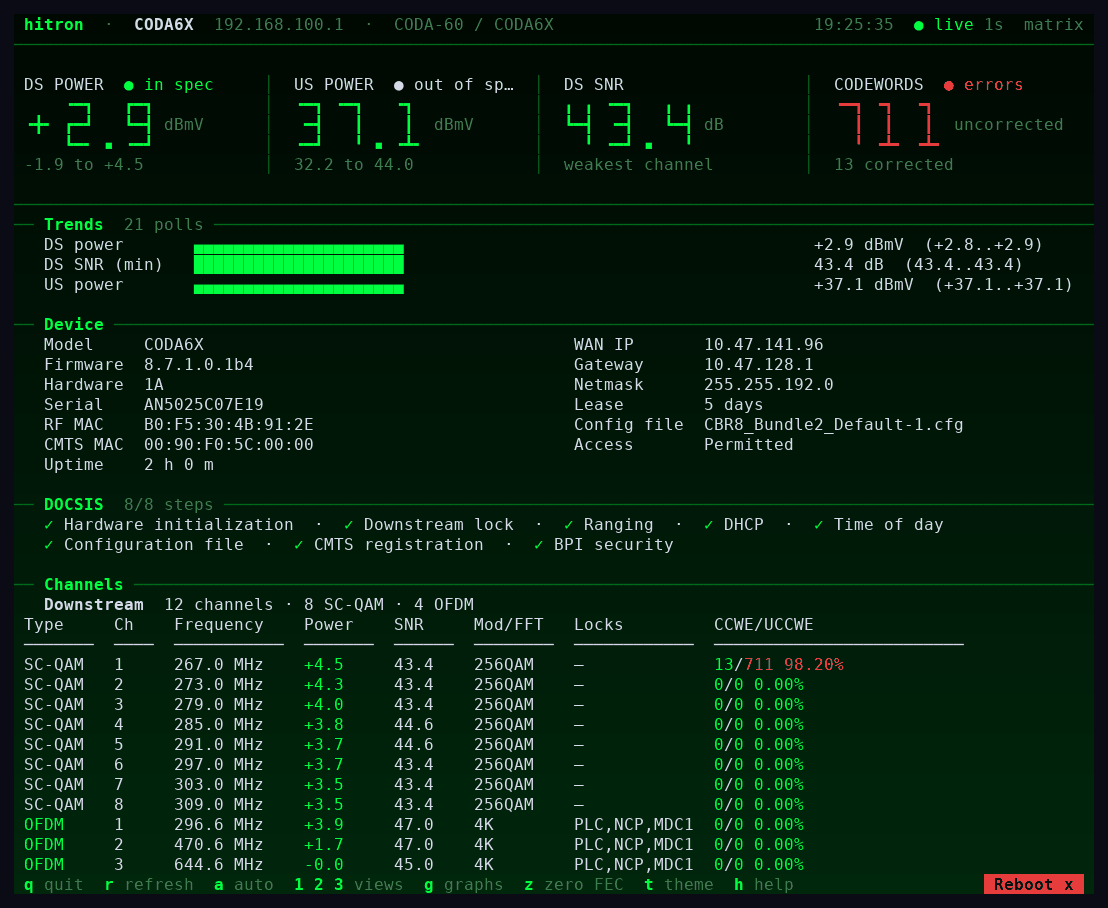
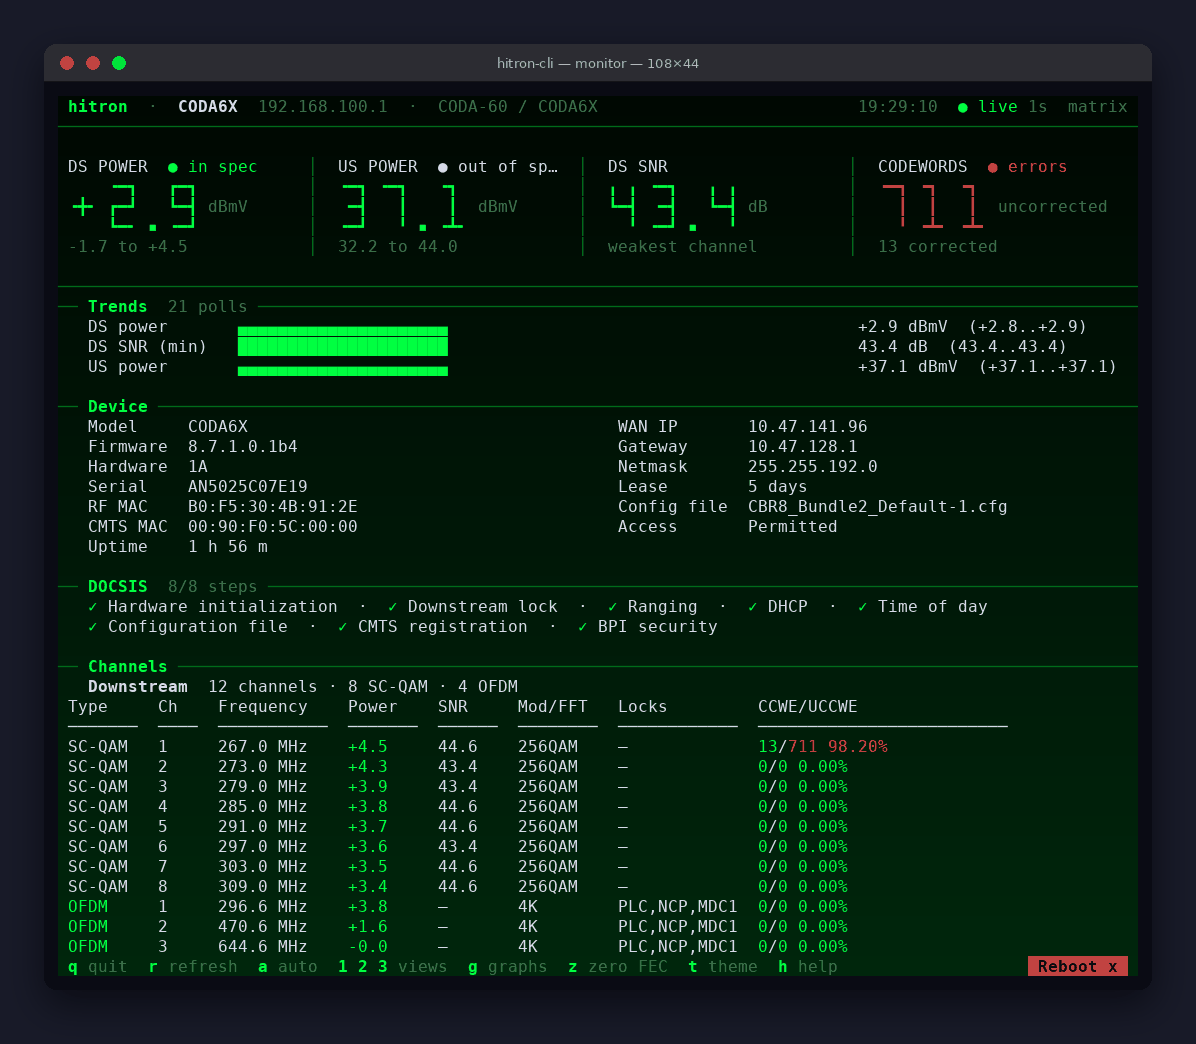
cli demo: frame screenshots and GIFs in a macOS-style terminal window
Claude-Session: https://claude.ai/code/session_01QjpKwof5sAL7DD3A8Eu8rh

Changed region(s): [[0.0, 0.0, 1.0, 0.9868], [0.5217, 0.6784, 0.6137, 0.7093]]

diff --git a/site/index.html b/site/index.html
@@ -95,7 +95,7 @@
   </div>
 
   <figure class="shot hero-shot">
-    <img src="assets/cli/summary.gif" alt="hitron-cli live summary: power and SNR tiles, trend graphs, device identity, DOCSIS steps, and a downstream channel table updating once a second" width="1108" height="908" loading="lazy">
+    <img src="assets/cli/summary.gif" alt="hitron-cli live summary: power and SNR tiles, trend graphs, device identity, DOCSIS steps, and a downstream channel table updating once a second" width="1196" height="1044" loading="lazy">
     <figcaption>The live summary on a CODA-60, polling once a second. Identifiers in these captures are made up; the readings are real.</figcaption>
   </figure>
 
@@ -148,7 +148,7 @@
       <h3>A spectrum analyser and constellation, built in</h3>
       <p>On CODA6X modems the cable modem's own tuner is exposed. Press <kbd>2</kbd> for a 6 MHz live spectrum capture around any downstream channel, or <kbd>3</kbd> for the I/Q constellation with MER. The modem has one tuner, so captures run one at a time; use <kbd>[</kbd> and <kbd>]</kbd> to step through channels.</p>
     </div>
-    <figure class="shot"><img src="assets/cli/analyser.gif" alt="Spectrum view of a 6 MHz window, then the 256-QAM constellation for a downstream channel, stepping through channels" width="1108" height="908" loading="lazy"></figure>
+    <figure class="shot"><img src="assets/cli/analyser.gif" alt="Spectrum view of a 6 MHz window, then the 256-QAM constellation for a downstream channel, stepping through channels" width="1196" height="1044" loading="lazy"></figure>
   </div>
 
   <div class="cli-feature">
@@ -164,7 +164,7 @@
         <button type="button" data-theme-shot="matrix" aria-pressed="false">matrix</button>
       </div>
     </div>
-    <figure class="shot"><img id="theme-shot" src="assets/cli/theme-neon.png" alt="hitron-cli summary in the neon theme" width="1108" height="908" loading="lazy"></figure>
+    <figure class="shot"><img id="theme-shot" src="assets/cli/theme-neon.png" alt="hitron-cli summary in the neon theme" width="1196" height="1044" loading="lazy"></figure>
   </div>
 
   <div class="cli-feature">
@@ -172,7 +172,7 @@
       <h3>Reboot that cannot happen by accident</h3>
       <p>Press <kbd>x</kbd> (or click the Reboot button) and a dialog asks you to type the word <code>reboot</code>. Nothing is sent before that, and <kbd>Esc</kbd> cancels. The CODA6X needs no username or password from the LAN, so the dialog does not ask for one. Factory reset and hard reset are deliberately not in the dashboard; they stay as separate commands.</p>
     </div>
-    <figure class="shot"><img src="assets/cli/reboot.png" alt="The reboot confirmation dialog asking the user to type the word reboot" width="1108" height="908" loading="lazy"></figure>
+    <figure class="shot"><img src="assets/cli/reboot.png" alt="The reboot confirmation dialog asking the user to type the word reboot" width="1196" height="1044" loading="lazy"></figure>
   </div>
 
   <p class="muted small">Source, flags, and the full command list: <a href="https://github.com/Netquor/hitron/tree/main/cli">cli/README.md</a>. Read-only by design: the dashboard polls the same endpoints the modem's own status page uses.</p>

diff --git a/site/assets/style.css b/site/assets/style.css
@@ -578,7 +578,7 @@ kbd {
 
 /* hitron-cli showcase */
 .shot { margin: 0; }
-.shot img { display: block; width: 100%; height: auto; border: 1px solid var(--line); border-radius: var(--radius); background: #0a0b14; }
+.shot img { display: block; width: 100%; height: auto; border-radius: var(--radius); background: #181a28; }
 .shot figcaption { margin-top: .5rem; font-size: .8rem; color: var(--ink-dim); }
 .hero-shot { max-width: 56rem; margin: 0 0 2rem; }
 .cli-grid { display: grid; gap: 1.2rem; grid-template-columns: repeat(auto-fit, minmax(20rem, 1fr)); margin-bottom: 2.4rem; }

diff --git a/cli/demo/render.py b/cli/demo/render.py
@@ -9,7 +9,7 @@ Pillow. Needs: pyte, pillow, DejaVu Sans Mono.
 """
 import codecs, argparse, fcntl, os, pty, select, signal, struct, subprocess, sys, tempfile, termios, time
 import pyte
-from PIL import Image, ImageDraw, ImageFont
+from PIL import Image, ImageDraw, ImageFilter, ImageFont
 
 COLS, ROWS = 108, 44
 FONT = "/usr/share/fonts/truetype/dejavu/DejaVuSansMono.ttf"
@@ -59,7 +59,39 @@ class Painter:
         self.w = COLS * CW + PAD * 2
         self.h = ROWS * CH + PAD * 2
 
+    def chrome(self, content):
+        """Wrap a frame in a macOS-style window: title bar, traffic lights, shadow."""
+        if not hasattr(self, "_base"):
+            m, bar, rad = 44, 38, 12
+            w, h = content.width, content.height + bar
+            W, H = w + 2 * m, h + 2 * m + 10
+            bg = Image.new("RGB", (W, H), (24, 26, 40))
+            shadow = Image.new("L", (W, H), 0)
+            ImageDraw.Draw(shadow).rounded_rectangle([m, m + 14, m + w, m + 14 + h], rad, fill=170)
+            shadow = shadow.filter(ImageFilter.GaussianBlur(18))
+            bg.paste(Image.new("RGB", (W, H), (4, 5, 10)), (0, 0), shadow)
+            win = Image.new("RGB", (w, h), (44, 44, 50))
+            d = ImageDraw.Draw(win)
+            for i, c in enumerate([(255, 95, 86), (255, 189, 46), (39, 201, 63)]):
+                d.ellipse([16 + i * 26, 12, 16 + i * 26 + 13, 25], fill=c)
+            f = ImageFont.truetype("/usr/share/fonts/truetype/dejavu/DejaVuSans.ttf", 13)
+            title = "hitron-cli — monitor — %d×%d" % (COLS, ROWS)
+            d.text(((w - d.textlength(title, font=f)) / 2, 11), title, font=f, fill=(170, 170, 180))
+            d.line([0, bar - 1, w, bar - 1], fill=(20, 20, 24))
+            self._base = (bg, win, m, bar, rad)
+        bg, win, m, bar, rad = self._base
+        win = win.copy()
+        win.paste(content, (0, bar))
+        mask = Image.new("L", win.size, 0)
+        ImageDraw.Draw(mask).rounded_rectangle([0, 0, win.width - 1, win.height - 1], rad, fill=255)
+        out = bg.copy()
+        out.paste(win, (m, m), mask)
+        return out
+
     def draw(self, screen):
+        return self.chrome(self._draw(screen))
+
+    def _draw(self, screen):
         img = Image.new("RGB", (self.w, self.h), DEFAULT_BG)
         d = ImageDraw.Draw(img)
         for y in range(ROWS):
